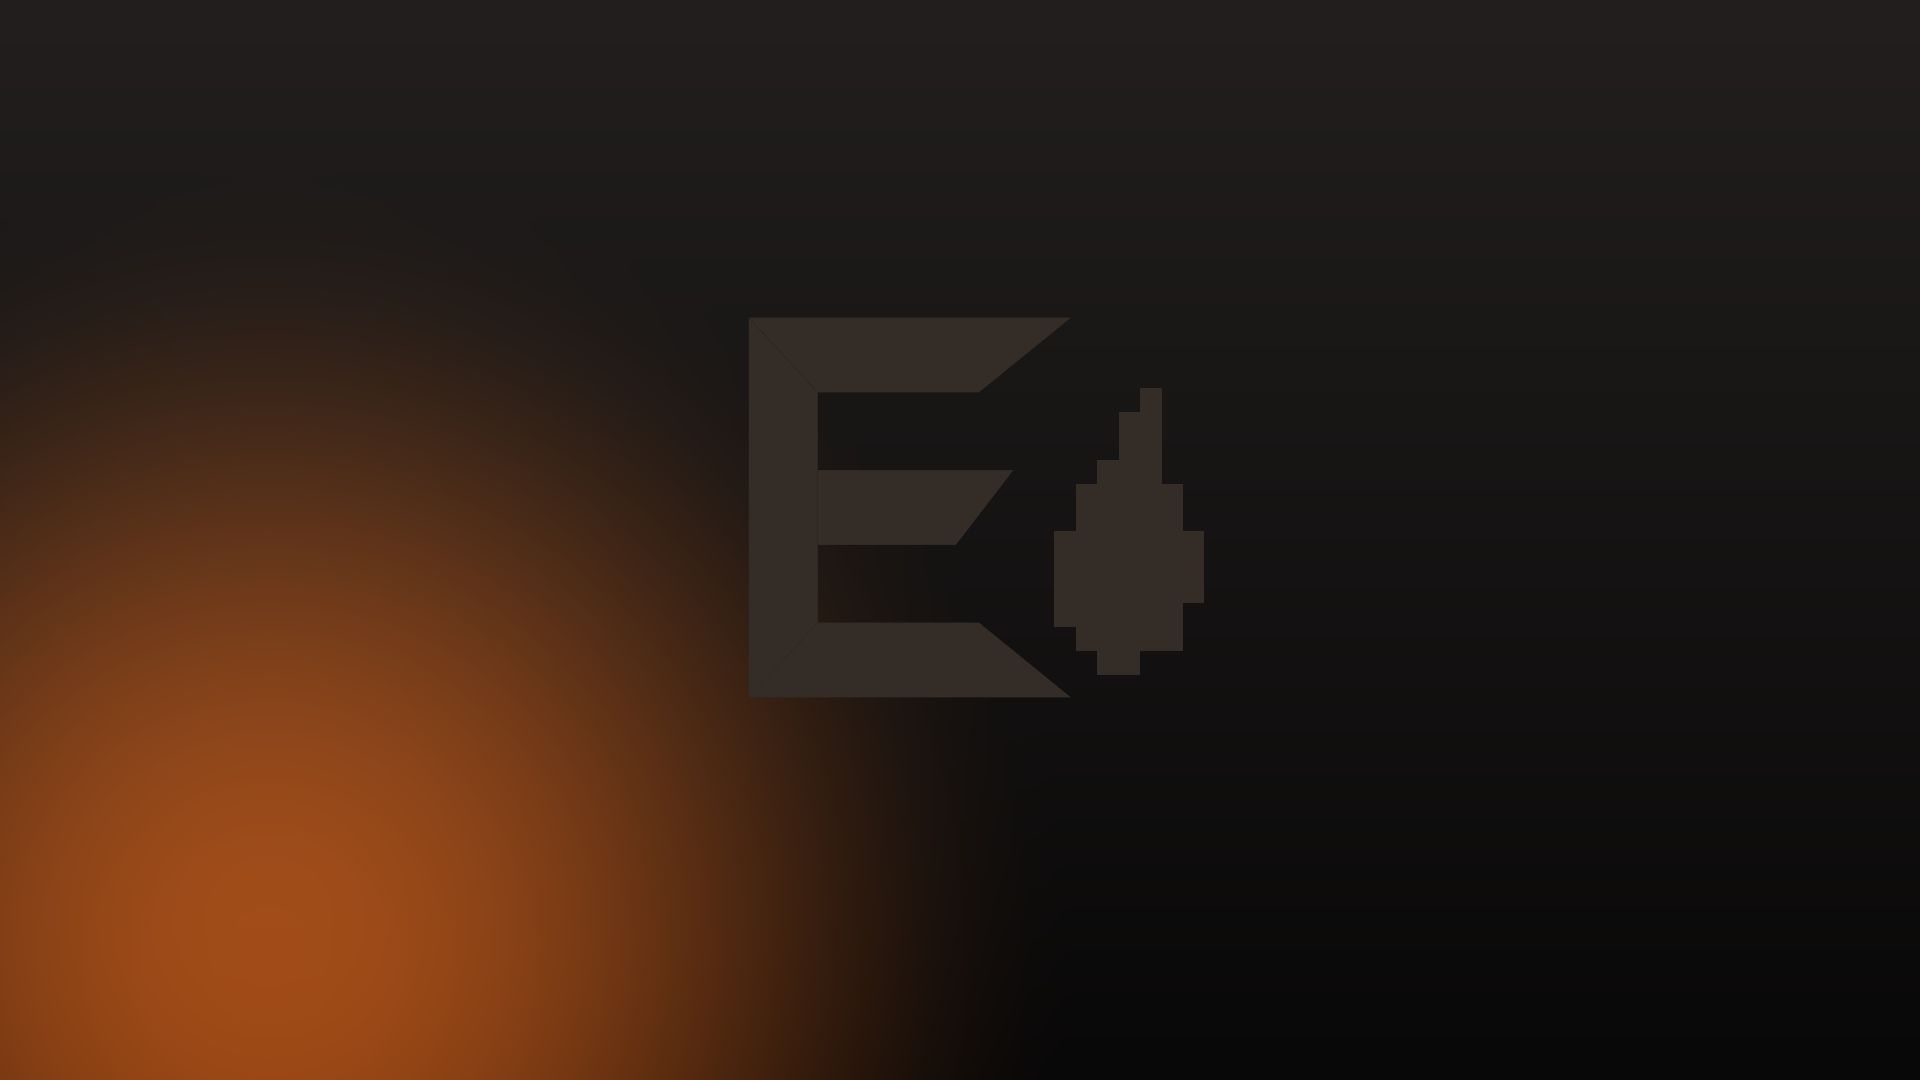
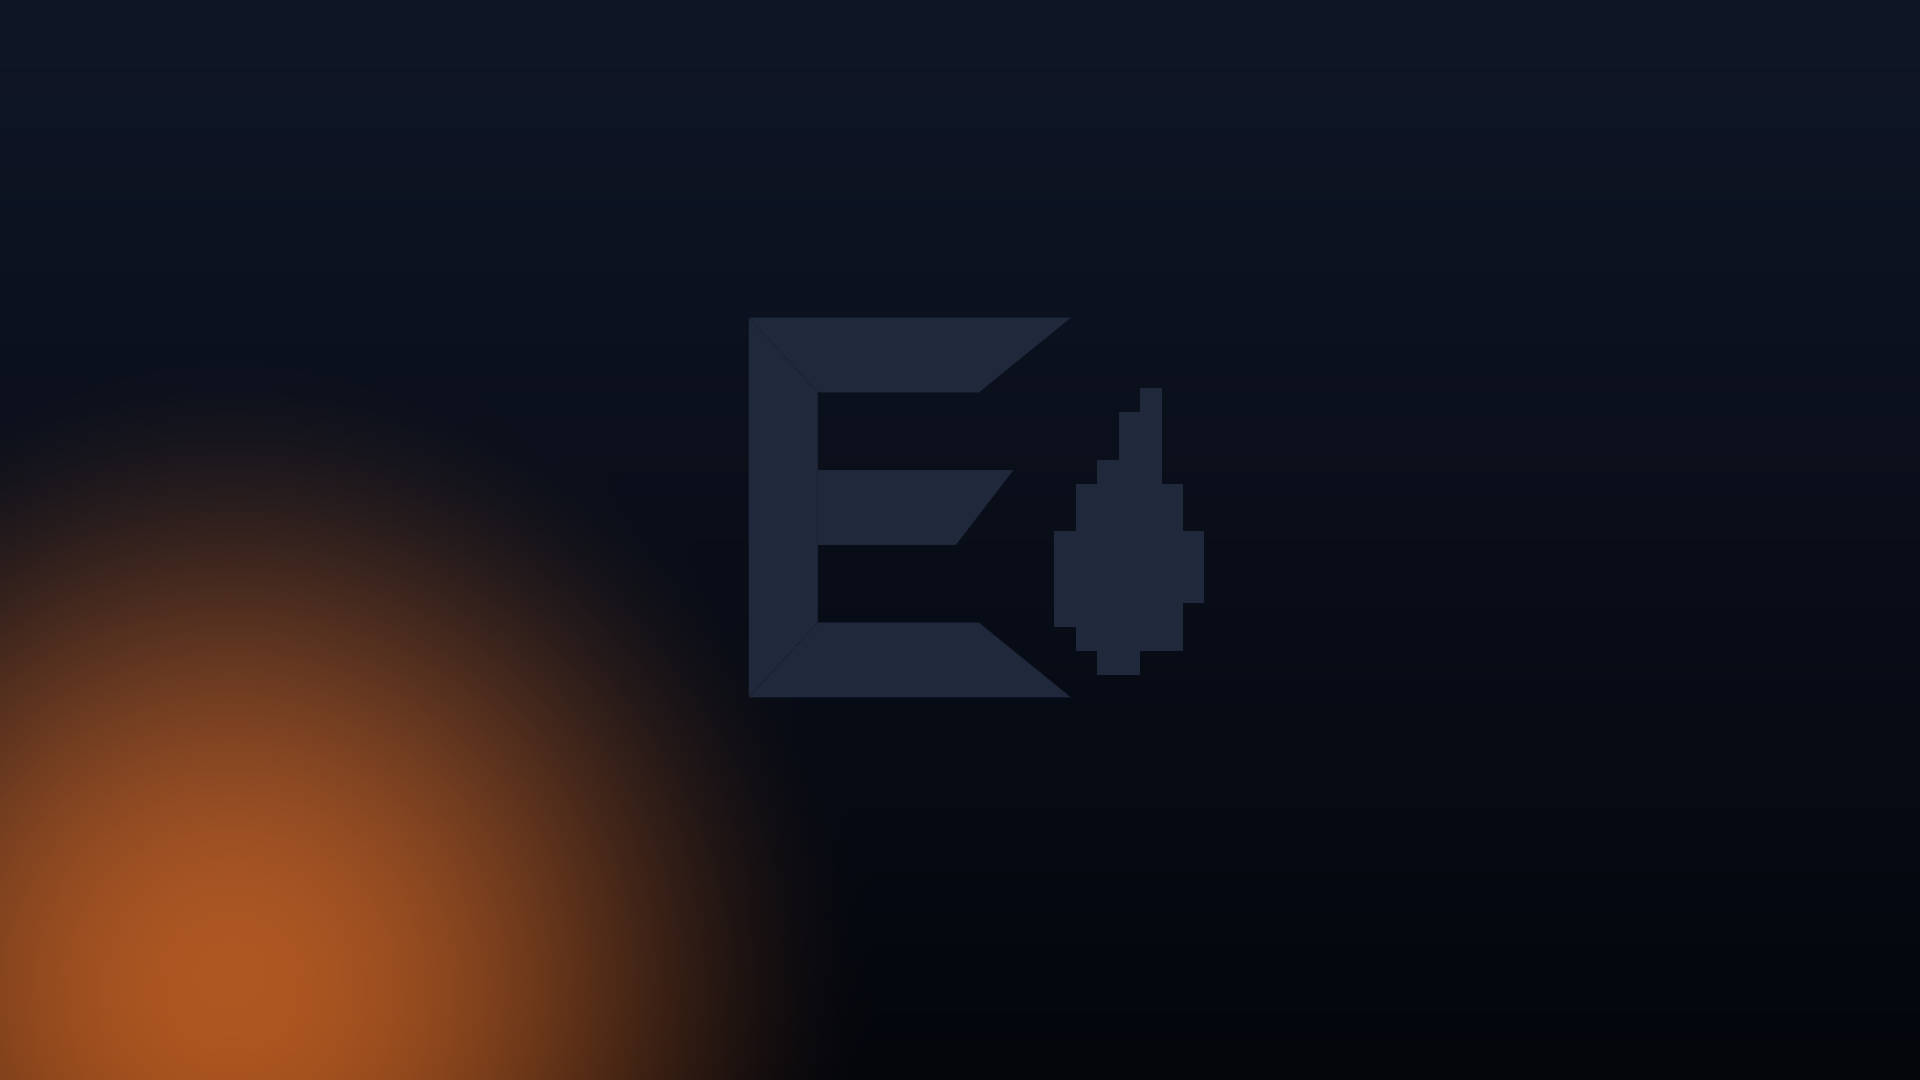
Linux track: Midnight is the default wallpaper

Changed region(s): [[0.0, 0.2444, 0.5, 1.0]]

diff --git a/linux/tools/make_wallpaper.py b/linux/tools/make_wallpaper.py
@@ -3,7 +3,7 @@
 
   make_wallpaper.py --sheet     preview every style in logo-examples/wallpapers/
   make_wallpaper.py [--all|N]   write the wallpapers the chooser app offers;
-                                style 1 is also the default (emberos-wallpaper.png)
+                                style 3 is also the default (emberos-wallpaper.png)
 
 Each style is a dark vertical gradient, a soft glow, optional pixel embers
 drifting up (like the pixel flame of the logo) and a faint logo watermark.
@@ -21,7 +21,7 @@ import make_logo  # noqa: E402
 OUT = os.path.join(HERE, "..", "config", "includes.chroot", "usr", "share",
                    "backgrounds", "emberos", "emberos-wallpaper.png")
 SHEET_DIR = os.path.join(HERE, "..", "..", "logo-examples", "wallpapers")
-DEFAULT_STYLE = "1"
+DEFAULT_STYLE = "3"
 
 AMBER = (255, 150, 40)
 
